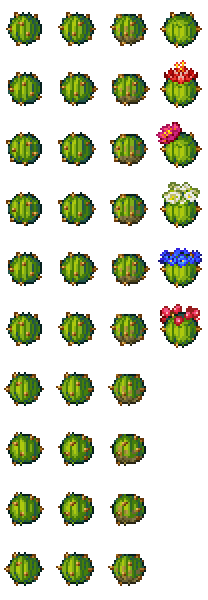
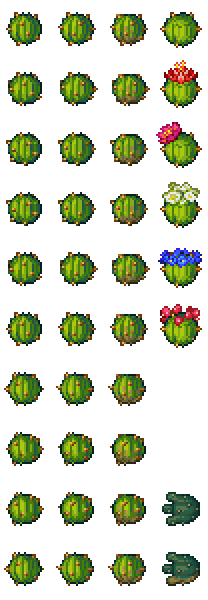
Start Bomb Stactus

Changed region(s): [[0.7788, 0.81, 0.9808, 0.99]]

diff --git a/Content/Desert/NPCs/Cactus/Stactus.cs b/Content/Desert/NPCs/Cactus/Stactus.cs
@@ -1,4 +1,5 @@
-using SpiritReforged.Common.Easing;
+using Newtonsoft.Json.Linq;
+using SpiritReforged.Common.Easing;
 using SpiritReforged.Common.ModCompat;
 using SpiritReforged.Common.NPCCommon;
 using SpiritReforged.Common.NPCCommon.Interfaces;
@@ -98,9 +99,9 @@ public abstract class Stactus : ModNPC, IDeathCount, IPickupCoins
 			else if (i == height - 1)
 				segment = SegmentType.Head;
 
-			var source = (parent != -1) ? Main.npc[parent].GetSource_FromThis() : new EntitySource_SpawnNPC();
 			int startIndex = (segment == SegmentType.Head) ? 0 : 30; //Ensures the head is drawn after all other segments in a stack
-			var npc = NPC.NewNPCDirect(source, NPC.Center, NPC.type, startIndex, parent, (int)segment, parameters.SpawnTime);
+			IEntitySource source = (parent != -1) ? Main.npc[parent].GetSource_FromThis() : new EntitySource_SpawnNPC();
+			NPC npc = NPC.NewNPCDirect(source, NPC.Center, NPC.type, startIndex, parent, (int)segment, parameters.SpawnTime);
 			npc.velocity.Y = (i + 1) * -1.5f;
 
 			if (npc.ModNPC is Stactus stactus)
@@ -113,19 +114,19 @@ public abstract class Stactus : ModNPC, IDeathCount, IPickupCoins
 		}
 	}
 
-	/// <summary> The face texture associated with this NPC type. </summary>
+	/// <summary> The face texture associated with this NPC type. Throws exceptions on failure. </summary>
 	public Texture2D FaceTexture => Faces[Type].Value;
 
 	public override void SetStaticDefaults()
 	{
 		Main.npcFrameCount[Type] = 10;
 		NPCID.Sets.CantTakeLunchMoney[Type] = true;
+		NPCID.Sets.NPCBestiaryDrawOffset.Add(Type, new()
+		{
+			Position = new Vector2(0, 12)
+		});
 
-		var drawModifiers = new NPCID.Sets.NPCBestiaryDrawModifiers() { Position = new Vector2(0, 12) };
-		NPCID.Sets.NPCBestiaryDrawOffset.Add(Type, drawModifiers);
-
-		Faces.Add(Type, Graphics.Tex("SpiritReforged/Content/Desert/NPCs/Cactus/" + Name + "Faces"));
-
+		Faces.Add(Type, typeof(Stactus).Texture(Name + "Faces"));
 		MoRHelper.AddNPCToElementList(Type, MoRHelper.NPCType_Plantlike);
 	}
 
@@ -170,7 +171,7 @@ public abstract class Stactus : ModNPC, IDeathCount, IPickupCoins
 
 		if (ParentNPC != null)
 		{
-			if (Main.netMode != NetmodeID.MultiplayerClient && (ParentNPC.type != Type || !ParentNPC.active || ParentNPC.ModNPC is Stactus s && s.falling)) //ParentNPC is invalid
+			if (Main.netMode != NetmodeID.MultiplayerClient && (/*ParentNPC.type != Type ||*/ !ParentNPC.active || ParentNPC.ModNPC is not Stactus s || s.falling)) //ParentNPC is invalid
 			{
 				if (Segment is SegmentType.Head && FindNewParent(out var p))
 				{
@@ -258,7 +259,7 @@ public abstract class Stactus : ModNPC, IDeathCount, IPickupCoins
 				if (style == 0)
 					count--; //Juvenile debuff
 
-				for (int i = 0; i < count; i++)
+				for (int i = 2; i < count; i++)
 				{
 					if (Collision.SolidTiles(NPC.position - new Vector2(0, NPC.height * i), NPC.width, NPC.height - 4))
 					{
@@ -464,11 +465,8 @@ public abstract class Stactus : ModNPC, IDeathCount, IPickupCoins
 		npcLoot.AddCommon(ModContent.ItemType<Thornball>(), 1, 5, 10);
 		npcLoot.AddCommon(ItemID.Cactus, 1, 6, 12);
 
-		if (CrossMod.Thorium.Enabled)
-		{
-			if (CrossMod.Thorium.TryFind("CactusFruit", out ModItem cactusFruit))
-				npcLoot.AddCommon(cactusFruit.Type, 10);
-		}
+		if (CrossMod.Thorium.Enabled && CrossMod.Thorium.TryFind("CactusFruit", out ModItem cactusFruit))
+			npcLoot.AddCommon(cactusFruit.Type, 10);
 
 		LeadingConditionRule rule = new(new IsPrickly());
 		rule.OnSuccess(ItemDropRule.Common(ItemID.PinkPricklyPear));

diff --git a/Content/Desert/NPCs/Cactus/BombStactus.cs b/Content/Desert/NPCs/Cactus/BombStactus.cs
@@ -1,0 +1,59 @@
+using SpiritReforged.Common.ModCompat;
+using SpiritReforged.Common.NPCCommon;
+using Terraria.Audio;
+
+namespace SpiritReforged.Content.Desert.NPCs.Cactus;
+
+public class BombStactus : Stactus
+{
+	public override void SetStaticDefaults()
+	{
+		Main.npcFrameCount[Type] = 8;
+		NPCID.Sets.CantTakeLunchMoney[Type] = true;
+		NPCID.Sets.NPCBestiaryDrawOffset.Add(Type, new()
+		{
+			Hide = true
+		});
+
+		MoRHelper.AddNPCToElementList(Type, MoRHelper.NPCType_Plantlike);
+	}
+
+	public override void OnKill()
+	{
+		if (CrossMod.Fables.TryFind("WulfrumMortarExplosion", out ModProjectile projectile))
+			Projectile.NewProjectile(NPC.GetSource_Death(), NPC.Center, Vector2.Zero, projectile.Type, 40, 20, Main.myPlayer);
+	}
+
+	public override void HitEffect(NPC.HitInfo hit)
+	{
+		if (!Main.dedServ)
+		{
+			for (int i = 0; i < 3; i++)
+				Dust.NewDustDirect(NPC.position, NPC.width, NPC.height, parameters.DustType, Scale: Main.rand.NextFloat(1f, 1.2f)).noGravity = Main.rand.NextBool();
+
+			if (!falling)
+				SoundEngine.PlaySound(SoundID.NPCHit1, NPC.Center);
+		}
+	}
+
+	public override void FindFrame(int frameHeight)
+	{
+		NPC.frame.Height = frameHeight - 2;
+		NPC.frame.Width = 40;
+
+		NPC.frameCounter = (NPC.frameCounter + 0.15f) % Main.npcFrameCount[Type];
+		NPC.frame.Y = (int)NPC.frameCounter * frameHeight;
+	}
+
+	public override bool PreDraw(SpriteBatch spriteBatch, Vector2 screenPos, Color drawColor)
+	{
+		Texture2D texture = TextureAssets.Npc[Type].Value;
+		Vector2 center = NPC.Center - screenPos + new Vector2(0, NPC.gfxOffY);
+		Rectangle source = NPC.frame;
+		Vector2 origin = source.Size() / 2;
+		Color color = NPC.DrawColor(drawColor);
+
+		Main.EntitySpriteDraw(texture, center, source, color, NPC.rotation, origin, NPC.scale, default);
+		return false;
+	}
+}

diff --git a/Content/Desert/NPCs/Cactus/DesertStactus.cs b/Content/Desert/NPCs/Cactus/DesertStactus.cs
@@ -1,4 +1,5 @@
 using SpiritReforged.Common.ModCompat;
+using Terraria.DataStructures;
 using Terraria.ModLoader.Utilities;
 
 namespace SpiritReforged.Content.Desert.NPCs.Cactus;
@@ -24,5 +25,23 @@ public class DesertStactus : Stactus
 		}
 
 		return (spawnInfo.PlayerInTown || !spawnInfo.Player.ZoneDesert || !onSand) ? 0 : SpawnCondition.OverworldDayDesert.Chance * spawnModifier;
+	}
+
+	public override void OnSpawn(IEntitySource source) //Randomly transform into a Bomb Stactus with Fables enabled
+	{
+		if (Segment is SegmentType.Variant_A or SegmentType.Variant_B && CrossMod.Fables.Enabled && Main.rand.NextBool(8))
+		{
+			if (NPC.ModNPC is Stactus stactus)
+			{
+				int parentWhoAmI = stactus.Parent;
+				Parameters parameters = stactus.parameters;
+
+				NPC.Transform(ModContent.NPCType<BombStactus>());
+
+				stactus.parameters = parameters;
+				stactus.Parent = parentWhoAmI;
+				NPC.netUpdate = true;
+			}
+		}
 	}
 }
